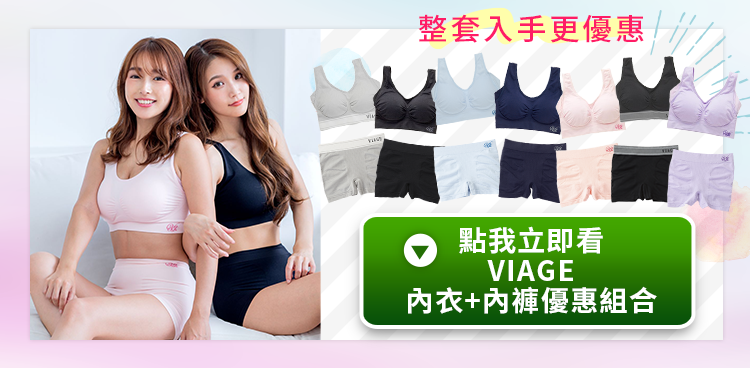
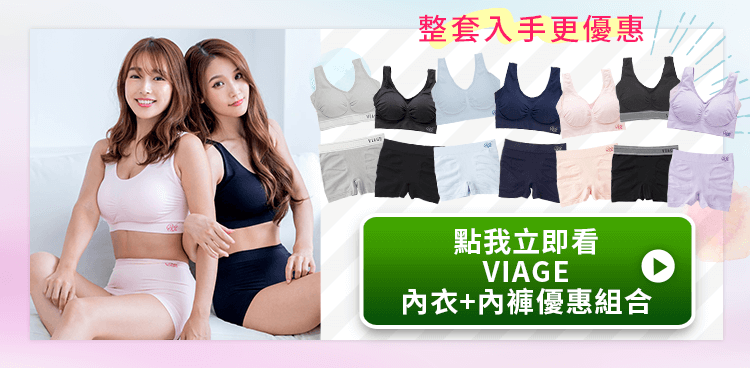
20210514_change btn

Changed region(s): [[0.5213, 0.5978, 0.92, 0.8668]]

diff --git a/index.html b/index.html
@@ -98,7 +98,7 @@
                                 <img src="images/05_offer_bra_SMP.png" alt="">
                             </a>
                             <a href="https://viagebeautybra.com/vgrpss" target="_blank">
-                                <img src="images/06_btn_pants_2_SMP.png" alt="" class="btn_pants_2"
+                                <img src="images/08_btn_set_SMP.png" alt="" class="btn_pants_2"
                                     style="margin:1% auto">
                             </a>
                         </div>
